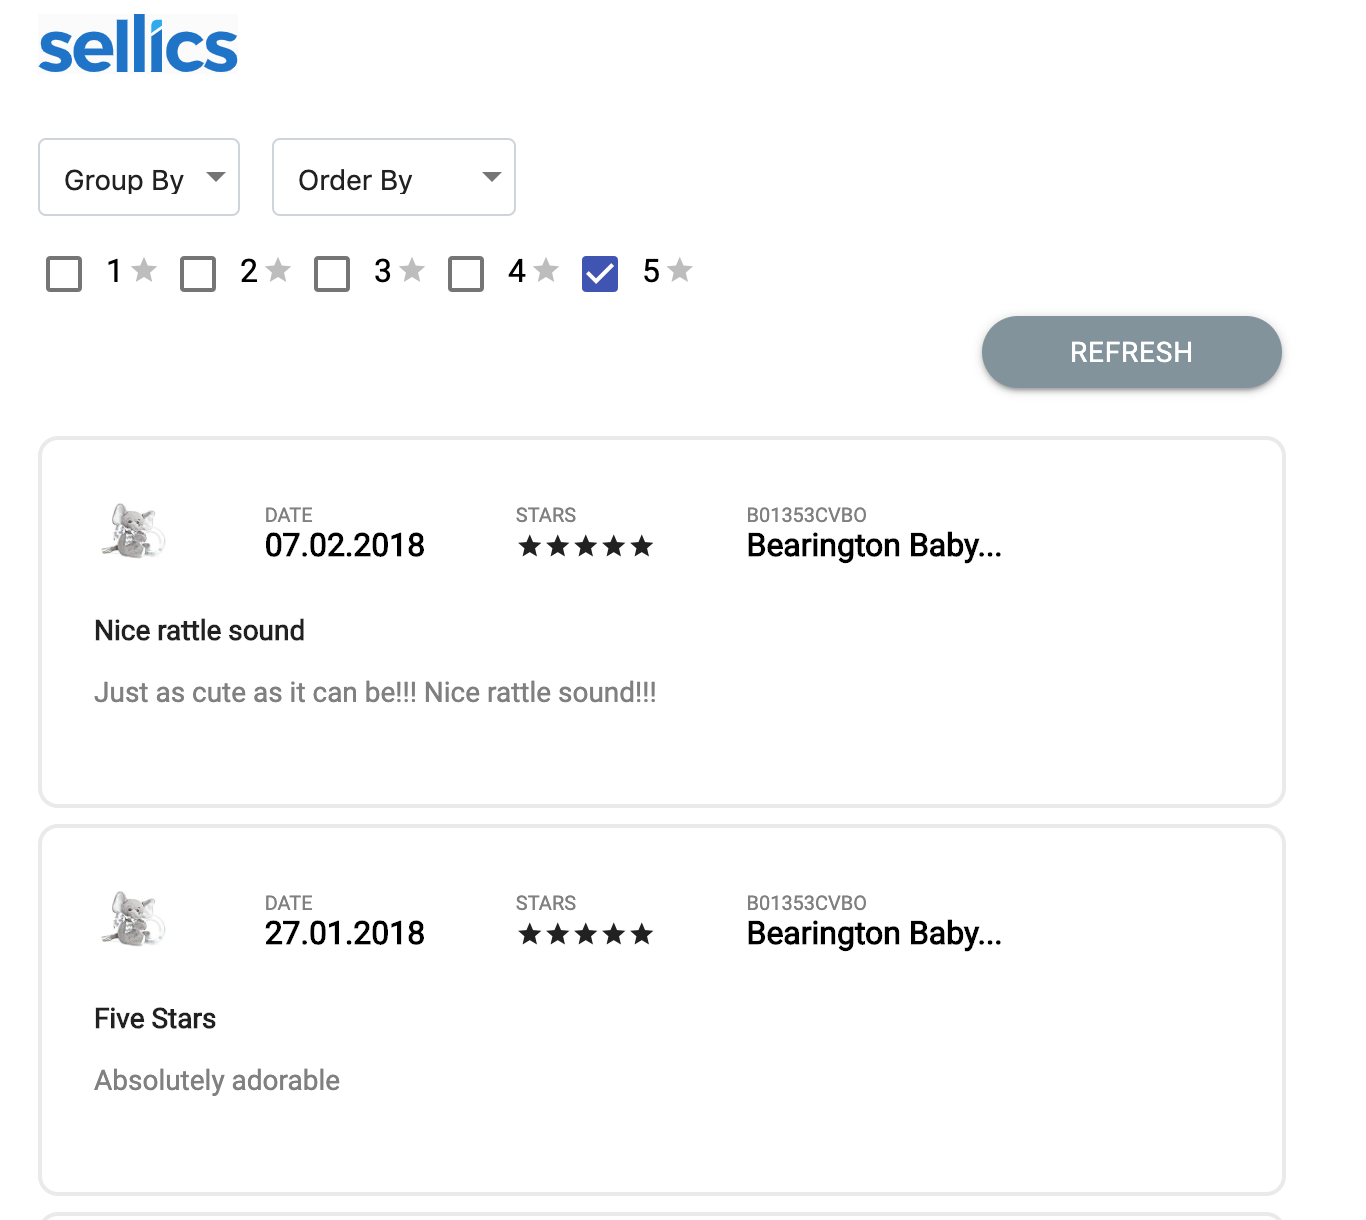
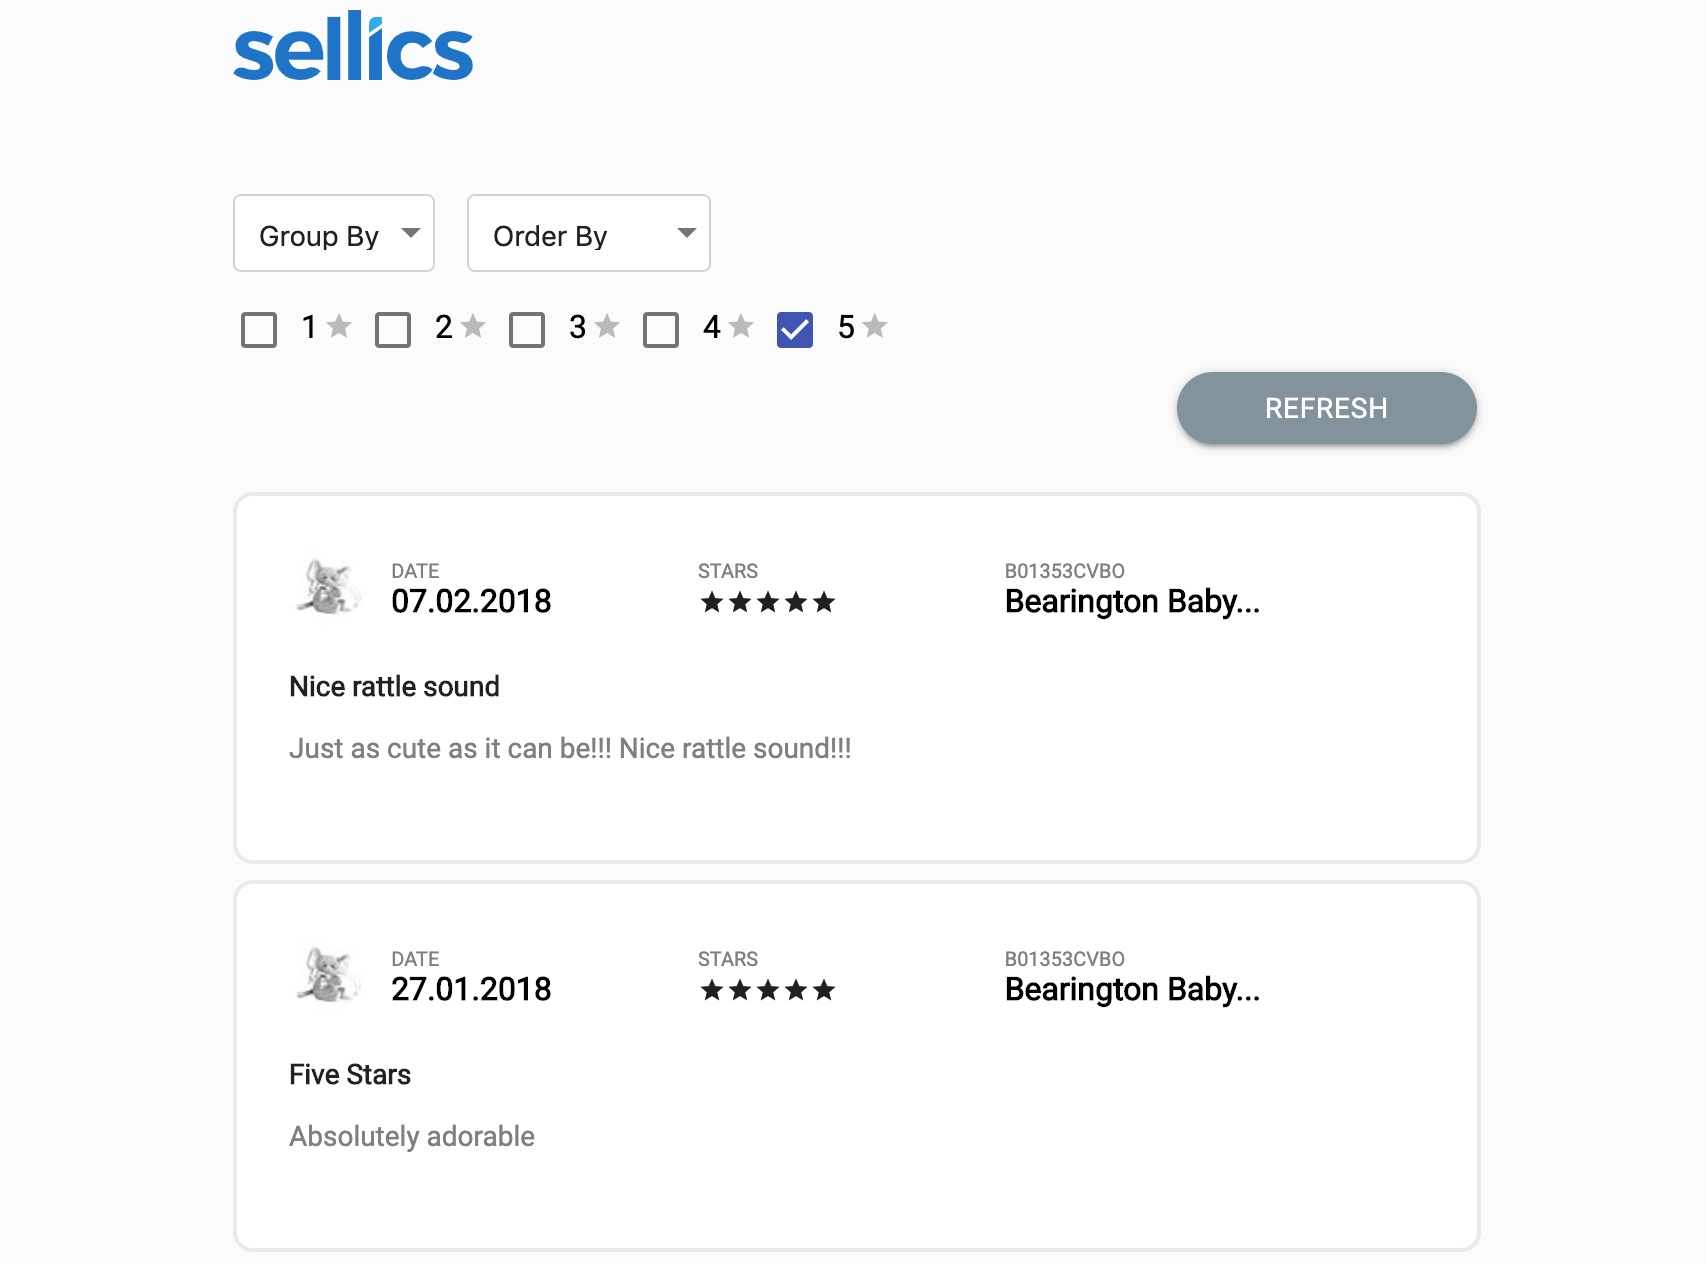
updated label value cell width and images size

diff --git a/src/components/ReviewDetails/ReviewDetails.js b/src/components/ReviewDetails/ReviewDetails.js
@@ -29,11 +29,13 @@ export const ReviewDetails = ({ cards }) => {
                   className={classes.card}>
                     <CardContent>
                         <div className={classes.cardContainer}>
-                            <img
-                              className={classes.logo}
-                              alt='logo'
-                              src={getProductImageHelper(item)}
-                            />
+                            <div className={classes.item}>
+                                <img
+                                  className={classes.logo}
+                                  alt='logo'
+                                  src={getProductImageHelper(item)}
+                                />
+                            </div>
                             <LabelValueCell
                               label='DATE'
                               value={moment(get(item, 'reviewCreated', ''))

diff --git a/src/helpers/getProductImageHelper/__tests__/getProductImageHelper.test.js b/src/helpers/getProductImageHelper/__tests__/getProductImageHelper.test.js
@@ -6,7 +6,7 @@ describe('getProductImageHelper', () => {
       productImg: '61YqZpvCyaL',
     };
     const expected = getProductImageHelper(mockItem);
-    const result =  "https://images-na.ssl-images-amazon.com/images/I/61YqZpvCyaL._CR412,0,1060,1060_UX175.jpg";
+    const result =  "https://images-na.ssl-images-amazon.com/images/I/61YqZpvCyaL._CR412,0,1060,1060_UX50.jpg";
     expect(expected).toEqual(result);
   });
 });

diff --git a/src/components/ReviewDetails/ReviewDetailsStyles.js b/src/components/ReviewDetails/ReviewDetailsStyles.js
@@ -15,7 +15,7 @@ export const ReviewDetailsStyles = makeStyles(theme => ({
     justifyContent: 'space-between',
     flexDirection: 'row',
     marginBottom: 10,
-    width: '80%',
+    width: '90%',
   },
   title: {
     fontSize: 14,
@@ -29,4 +29,7 @@ export const ReviewDetailsStyles = makeStyles(theme => ({
     width: 40,
     height: 40,
   },
+  item: {
+    width: '10%',
+  }
 }));

diff --git a/src/helpers/getProductImageHelper/getProductImageHelper.js b/src/helpers/getProductImageHelper/getProductImageHelper.js
@@ -9,5 +9,5 @@ import get from 'lodash/get';
  */
 export const getProductImageHelper = (item) => {
   const productImg = get(item, 'productImg', '');
-  return `https://images-na.ssl-images-amazon.com/images/I/${productImg}._CR412,0,1060,1060_UX175.jpg`;
+  return `https://images-na.ssl-images-amazon.com/images/I/${productImg}._CR412,0,1060,1060_UX50.jpg`;
 };

diff --git a/src/components/LabelValueCell/LabelValueCell.js b/src/components/LabelValueCell/LabelValueCell.js
@@ -13,7 +13,7 @@ export const LabelValueCell = ({ label, value, stars, rating }) => {
   const classes = LabelValueCellStyles();
 
   return (
-    <div>
+    <div className={classes.item}>
       <label className={classes.label}>
         {label}
       </label>

diff --git a/src/components/InfiniteScrollReview/infinite-scroll-review.css b/src/components/InfiniteScrollReview/infinite-scroll-review.css
@@ -16,8 +16,8 @@ body {
   text-align: center;
 }
 .logo {
-  width: 100px;
+  width: 120px;
   height: 30px;
   margin-left: 8px;
-  background-color: #FBFBFB;
+  margin-bottom: 30px;
 }

diff --git a/src/components/LabelValueCell/LabelValueCellStyles.js b/src/components/LabelValueCell/LabelValueCellStyles.js
@@ -14,4 +14,7 @@ export const LabelValueCellStyles = makeStyles(theme => ({
     lineHeight: 1,
     fontWeight: 'bold',
   },
+  item: {
+    width: '30%',
+  }
 }));
